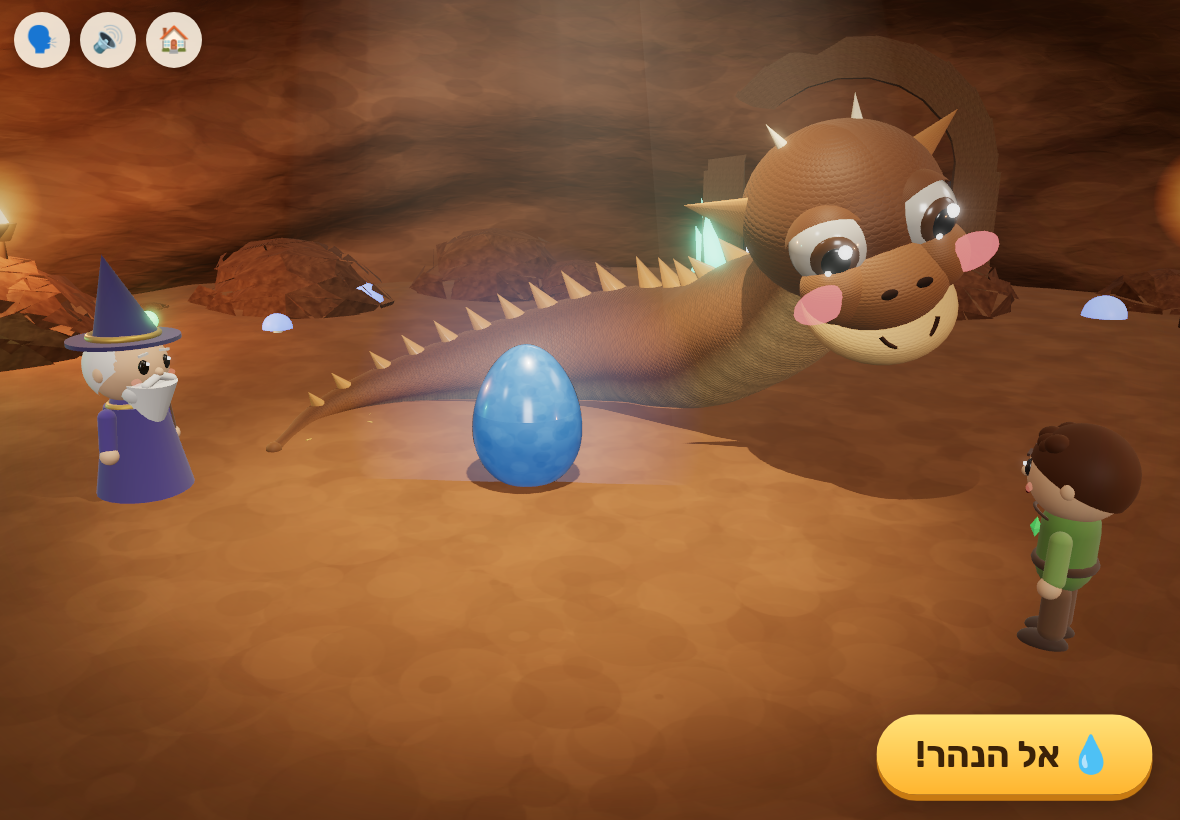
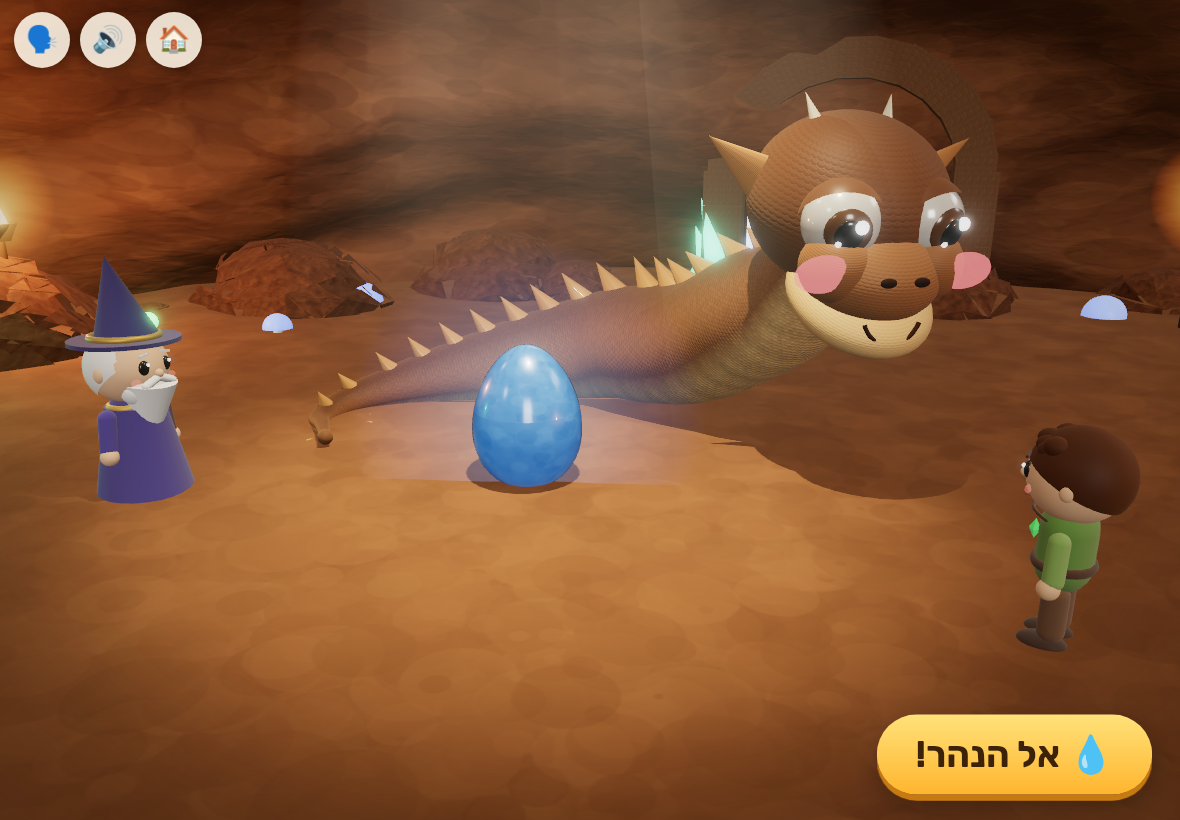
Chapter 2 review fixes: jagged egg shells that stay on the floor, bigger baby with a close-up hatch moment, river water without sun glare

diff --git a/src/chapters/ch2.js b/src/chapters/ch2.js
@@ -36,7 +36,29 @@ export function chapter2(G) {
   const eggTex = noiseTexture(256, [96, 168, 232], 70, 9, 260); eggTex.colorSpace = THREE.SRGBColorSpace; eggTex.repeat.set(2, 1);
   const eggM = new THREE.MeshPhysicalMaterial({ map: eggTex, color: 0xd6d6d6, emissive: 0x1e6fd0, emissiveIntensity: 0.45, roughness: 0.25, clearcoat: 1, side: THREE.DoubleSide });
   const egg = new THREE.Group(), eggTop = new THREE.Mesh(half(0, CUT), eggM), eggBottom = new THREE.Mesh(half(CUT, Math.PI), eggM);
-  const crack = new THREE.Mesh(new THREE.TorusGeometry(eggPt(CUT).x + 0.004, 0.018, 6, 40).rotateX(Math.PI / 2).translate(0, eggPt(CUT).y, 0), new THREE.MeshStandardMaterial({ color: 0x143a5c, roughness: 0.8 }));
+  // jagged break line: the crack drawn on the whole egg and the rims of the shell pieces share it, so they fit
+  const TEETH = 9, rim = phi => CUT + 0.14 * (Math.abs((((phi * TEETH / (Math.PI * 2)) % 1) + 1) % 1 - 0.5) * 4 - 1);
+  function shellGeo(p0, p1, thA, thB, nP, nT = 8) { // a patch of the egg surface between two longitudes and two (per-longitude) latitudes
+    const pos = [], uv = [], idx = [];
+    for (let i = 0; i <= nP; i++) { const phi = p0 + (p1 - p0) * i / nP, a = thA(phi), b = thB(phi);
+      for (let j = 0; j <= nT; j++) { const th = a + (b - a) * j / nT, p = eggPt(th); pos.push(p.x * Math.sin(phi), p.y, p.x * Math.cos(phi)); uv.push(phi / (Math.PI * 2), 1 - th / Math.PI); } }
+    for (let i = 0; i < nP; i++) for (let j = 0; j < nT; j++) { const a = i * (nT + 1) + j, b = a + nT + 1; idx.push(a, b, a + 1, b, b + 1, a + 1); }
+    const g = new THREE.BufferGeometry(); g.setAttribute('position', new THREE.Float32BufferAttribute(pos, 3)); g.setAttribute('uv', new THREE.Float32BufferAttribute(uv, 2)); g.setIndex(idx); g.computeVertexNormals(); return g;
+  }
+  const crack = new THREE.Mesh(shellGeo(0, Math.PI * 2, p => rim(p) - 0.022, p => rim(p) + 0.022, TEETH * 4, 1).scale(1.012, 1.012, 1.012), new THREE.MeshStandardMaterial({ color: 0x143a5c, roughness: 0.8, side: THREE.DoubleSide }));
+  // the broken shell: two jagged half-bowls that tip outward and a cap that lands upside down; all stay on the floor
+  const shells = new THREE.Group(), innerM = new THREE.MeshStandardMaterial({ color: 0xd4dcdf, roughness: 0.7, side: THREE.DoubleSide });
+  const shard = (geo, pivotY) => { const g = new THREE.Group(), piv = new THREE.Group(), hold = new THREE.Group(); piv.position.y = pivotY; hold.position.y = -pivotY;
+    const outer = new THREE.Mesh(geo, eggM), inner = new THREE.Mesh(geo, innerM); inner.scale.setScalar(0.965); outer.castShadow = true; hold.add(outer, inner); piv.add(hold); g.add(piv); shells.add(g); return { g, piv }; };
+  const shR = shard(shellGeo(0, Math.PI, rim, () => Math.PI - 0.001, TEETH * 2), -0.86), shL = shard(shellGeo(Math.PI, Math.PI * 2, rim, () => Math.PI - 0.001, TEETH * 2), -0.86);
+  const shCap = shard(shellGeo(0, Math.PI * 2, () => 0.001, rim, TEETH * 4, 6), 0);
+  const Z_AXIS = new THREE.Vector3(0, 0, 1);
+  function setShells(e) { // 0 = closed egg … 1 = lying open on the floor
+    shR.piv.quaternion.setFromAxisAngle(Z_AXIS, -1.32 * e); shR.g.position.set(1.05 * e, 0, -0.25 * e);
+    shL.piv.quaternion.setFromAxisAngle(Z_AXIS, 1.32 * e); shL.g.position.set(-1.05 * e, 0, -0.25 * e);
+    shCap.g.position.set(-0.5 * e, Math.sin(e * Math.PI) * 1.7, -1.7 * e); shCap.piv.rotation.set(Math.PI * e, 0, 0.5 * e);
+  }
+  shells.visible = false; caveScene.add(shells);
   const eggGlow = new THREE.Sprite(new THREE.SpriteMaterial({ map: glowSprite('rgba(140,205,255,1)', 'rgba(60,140,255,0)'), blending: THREE.AdditiveBlending, depthWrite: false, opacity: 0.4 }));
   eggGlow.scale.setScalar(4.2);
   eggTop.castShadow = eggBottom.castShadow = true; egg.add(eggBottom, eggTop, crack, eggGlow); caveScene.add(egg);
@@ -46,7 +68,8 @@ export function chapter2(G) {
   const stones = Array.from({ length: 5 }, (_, i) => { const m = new THREE.Mesh(stoneG, stoneM); m.rotation.y = i * 1.3; m.castShadow = true; caveScene.add(m); return { m, placed: false, moving: false }; });
   // the baby, Bo and Shu
   const baby = createWorm({ name: 'babyDragon', colors: BABY, length: 6.2, headScale: 1.55, finScale: 1.5, horns: false, dorsal: 'fin', lod: 0.5, light: false, shadow: false, simple: true });
-  baby.root.scale.setScalar(0.24);
+  const BABY_S = 0.48, BABY_FRONT = V(0.2, 0, -0.6); // she ends up in front of her shells, facing the kid
+  baby.root.scale.setScalar(BABY_S);
   const shu = createWorm({ name: 'waterDragon', colors: WATER, finScale: 1.7, horns: false, dorsal: 'fin', lod: 0.6, light: false, shadow: 'body', simple: true });
   shu.root.scale.setScalar(0.8);
   const bo = makeBo();
@@ -59,8 +82,8 @@ export function chapter2(G) {
     const pup = new THREE.Mesh(new THREE.SphereGeometry(0.2, 12, 8), new THREE.MeshStandardMaterial({ color: 0x20242c, roughness: 0.2 })); pup.position.set(sx * 0.75, 0.2, 2.3); cloud.add(pup);
   }
   cloud.visible = false; outdoor.add(cloud);
-  const actors = [egg, baby.root, shu.root, bo.root, cloud, ...stones.map(s => s.m)];
-  function showAll(v) { for (const a of actors) a.visible = v; bubbles.group.visible = v; if (!v) { eggTop.visible = true; crack.visible = false; } }
+  const actors = [egg, shells, baby.root, shu.root, bo.root, cloud, ...stones.map(s => s.m)];
+  function showAll(v) { for (const a of actors) a.visible = v; bubbles.group.visible = v; if (!v) crack.visible = false; }
   showAll(false);
 
   // ---------------------------------------------------------------- tiny tweens (driven by the frame tick, so they pause with the tab)
@@ -103,7 +126,7 @@ export function chapter2(G) {
     drake.root.position.copy(DRAKE_POS); drake.root.rotation.y = Math.atan2(EGG.x - DRAKE_POS.x, EGG.z - DRAKE_POS.z);
     griffith.root.position.copy(GRIFF_POS);
     cave.openGate(); placed = 0; placing = false; warm = 0; eggShake = 0;
-    egg.rotation.set(0, 0, 0); eggTop.position.set(0, 0, 0); eggTop.rotation.set(0, 0, 0); eggTop.scale.setScalar(1); eggTop.visible = true; crack.visible = false;
+    egg.rotation.set(0, 0, 0); eggTop.visible = eggBottom.visible = eggGlow.visible = true; crack.visible = false; shells.visible = false; shells.position.copy(EGG); setShells(0); baby.root.scale.setScalar(BABY_S);
     if (stage === 'intro') { worm.setPose('rest'); worm.state.blend = 1; worm.lookAt(drake.root.position.clone().setY(1.4)); }
     else {
       worm.setPose('curl'); worm.state.blend = 1; worm.lookAt(NEAR_EGG); egg.visible = true; egg.position.copy(EGG);
@@ -223,13 +246,20 @@ export function chapter2(G) {
     await step(tween(1.8, k => { eggShake = k; }));
     eggShake = 0; sfx.chime(); sfx.happy();
     fx.burst(EGG.clone().add(V(0, 0.5, 0)), 0x9fdcff, 70, 5, 0.5, 1.5, -1); fx.confetti(EGG.clone().add(V(0, 0.6, 0)), 30);
-    // the baby sits coiled inside the lower shell (coil centre = egg centre)
-    baby.root.visible = true; baby.root.position.set(EGG.x + 2.9 * 0.24, 0.25, EGG.z); baby.root.rotation.set(0, 0, 0); baby.setPose('coil'); baby.state.blend = 1;
-    baby.lookAt(cam.position); baby.wiggle(2);
-    tween(0.9, k => { const e = ease(k); eggTop.position.set(-1.2 * e, 1.6 * Math.sin(e * Math.PI) + 0.1 * e, -0.8 * e); eggTop.rotation.z = e * 2.4; eggTop.scale.setScalar(1 - 0.999 * ss(e, 0.7, 1)); }).then(() => { eggTop.visible = false; });
-    worm.wiggle(1.8); fx.hearts3(worm.headWorld().add(V(0, 0.5, 0)).lerp(cam.position, 0.15), 6);
-    await step(wait(900));
+    // the shell breaks into jagged pieces that tip outward; the baby uncurls between them (coil centre = egg centre)
+    eggTop.visible = eggBottom.visible = crack.visible = eggGlow.visible = false; shells.visible = true;
+    baby.root.visible = true; baby.root.rotation.set(0, 0, 0); baby.setPose('coil'); baby.state.blend = 1; baby.lookAt(cam.position);
+    worm.wiggle(1.8); worm.lookAt(BABY_FRONT.clone().setY(0.9));
+    await step(tween(0.9, k => { const e = ease(k), sc = BABY_S * (0.35 + 0.65 * e); setShells(e); baby.root.scale.setScalar(sc); baby.root.position.set(EGG.x + 2.9 * sc, 0.05, EGG.z); }));
+    // she hops out in front of her shells and the camera comes close so the kid sees her face
+    const h0 = baby.root.position.clone();
+    G.camGoal = { pos: V(0.9, 2.0, 4.4), look: V(-0.1, 1.0, -0.8) };
+    await step(tween(0.8, k => { const e = ease(k); baby.root.position.lerpVectors(h0, BABY_FRONT, e); baby.root.position.y += Math.sin(e * Math.PI) * 1.0; }));
+    G.phase = 'c2-baby';
+    baby.wiggle(1.6); baby.state.blink = 1; sfx.squeak(); fx.hearts3(baby.headWorld().add(V(0, 0.7, 0)), 5);
+    await step(wait(900)); baby.state.blink = 1; sfx.squeak();
     await step(say('baby', 'פיפ! פיפ! הי הי הי!'));
+    G.camGoal = { pos: V(-1.0, 3.2, 5.8), look: V(-1.0, 1.0, -2.0) };
     await step(say('drake', 'וואו! דרקונית מים קטנטונת!'));
     baby.lookAt(worm.headWorld()); baby.wiggle(1.5); worm.wiggle(1.2); sfx.purr();
     await step(say('worm', 'שלום, קטנטונת! אני וורם. אל תפחדי, אני כאן.'));
@@ -257,7 +287,7 @@ export function chapter2(G) {
     bo.wave(2);
     await step(say('bo', 'תודה ששמרתם עליה, דרייק ווורם!'));
     // the baby hops over to her new friend
-    const b0 = baby.root.position.clone(), b1 = V(0.3, 0, -1.7);
+    const b0 = baby.root.position.clone(), b1 = V(0.9, 0, -1.7);
     baby.lookAt(worm.headWorld()); worm.lookAt(b1.clone().setY(0.4));
     await step(tween(1.2, k => { const e = ease(k); baby.root.position.lerpVectors(b0, b1, e); baby.root.position.y += Math.sin(e * Math.PI) * 1.2; }));
     baby.wiggle(2.5); worm.wiggle(2); sfx.purr(); fx.hearts3(b1.clone().setY(1.2), 8);

diff --git a/src/outdoor.js b/src/outdoor.js
@@ -3,7 +3,7 @@
 // Swap point: models.json "castle" GLB replaces `castleGroup` contents.
 import * as THREE from 'three';
 import { mergeGeometries } from 'three/addons/utils/BufferGeometryUtils.js';
-import { glowSprite, blobShadow } from './tex.js';
+import { glowSprite, blobShadow, noiseTexture } from './tex.js';
 
 const ss = THREE.MathUtils.smoothstep;
 export const PLATEAU = 3;
@@ -63,7 +63,12 @@ export function buildOutdoor() {
   const rv = [], ri = [];
   for (let i = 0; i <= 120; i++) { const x = -240 + i * 4, z = riverZ(x); rv.push(x, RIVER_Y, z - 8.5, x, RIVER_Y, z + 8.5); if (i < 120) { const a = i * 2; ri.push(a, a + 1, a + 2, a + 1, a + 3, a + 2); } }
   const rg = new THREE.BufferGeometry(); rg.setAttribute('position', new THREE.Float32BufferAttribute(rv, 3)); rg.setIndex(ri); rg.computeVertexNormals();
-  group.add(new THREE.Mesh(rg, water.material));
+  const uvs = []; for (let i = 0; i <= 120; i++) uvs.push(i * 4 / 14, 0, i * 4 / 14, 17 / 14);
+  rg.setAttribute('uv', new THREE.Float32BufferAttribute(uvs, 2));
+  // its own matte-ish material: no mirror-like sun glare (which bloomed into a white blob), gentle drifting ripples instead
+  const ripple = noiseTexture(256, [128, 128, 128], 110, 17, 500);
+  const riverM = new THREE.MeshStandardMaterial({ color: 0x2a7fc0, roughness: 0.78, metalness: 0, envMapIntensity: 0.3, bumpMap: ripple, bumpScale: 1.2, emissive: 0x0b3f70, emissiveIntensity: 0.3, transparent: true, opacity: 0.93 });
+  group.add(new THREE.Mesh(rg, riverM));
 
   // ---- castle (merged per material)
   const castle = new THREE.Group(); castle.name = 'castleGroup'; castle.position.y = PLATEAU; group.add(castle);
@@ -183,7 +188,7 @@ export function buildOutdoor() {
   blob.scale.set(9, 1, 14); group.add(blob);
 
   function update(dt, time) {
-    clouds.rotation.y = time * 0.004;
+    clouds.rotation.y = time * 0.004; ripple.offset.set(time * 0.05, Math.sin(time * 0.3) * 0.05);
     for (const f of flags) { const a = f.geometry.attributes.position, b = f.userData.base;
       for (let i = 0; i < a.count; i++) { const x = b[i * 3]; a.setZ(i, Math.sin(x * 2.2 - time * 5) * 0.18 * x / 2.4); } a.needsUpdate = true; }
   }

diff --git a/src/audio.js b/src/audio.js
@@ -18,6 +18,7 @@ export const sfx = {
   tap() { tone(660, now(), 0.12, 'triangle', 0.2); },
   chime() { const t = now(); [784, 988, 1175, 1568].forEach((f, i) => tone(f, t + i * 0.08, 0.5, 'sine', 0.22)); },
   star(i = 0) { const t = now(), base = [523, 587, 659, 698, 784, 880, 988, 1047][i % 8]; tone(base, t, 0.25, 'triangle', 0.25); tone(base * 1.5, t + 0.07, 0.4, 'sine', 0.2); tone(base * 2, t + 0.14, 0.5, 'sine', 0.12); },
+  squeak() { const t = now(); tone(1250, t, 0.09, 'sine', 0.2, 1.5); tone(1500, t + 0.13, 0.12, 'sine', 0.2, 1.35); },
   happy() { const t = now(); tone(220, t, 0.18, 'sine', 0.25, 1.6); tone(330, t + 0.16, 0.22, 'sine', 0.22, 1.5); },
   purr() { const t = now(); for (let i = 0; i < 6; i++) tone(110 + (i % 2) * 18, t + i * 0.09, 0.12, 'triangle', 0.18); },
   munch() { const t = now(); for (let i = 0; i < 3; i++) tone(180 - i * 20, t + i * 0.16, 0.08, 'square', 0.08, 0.6); },
